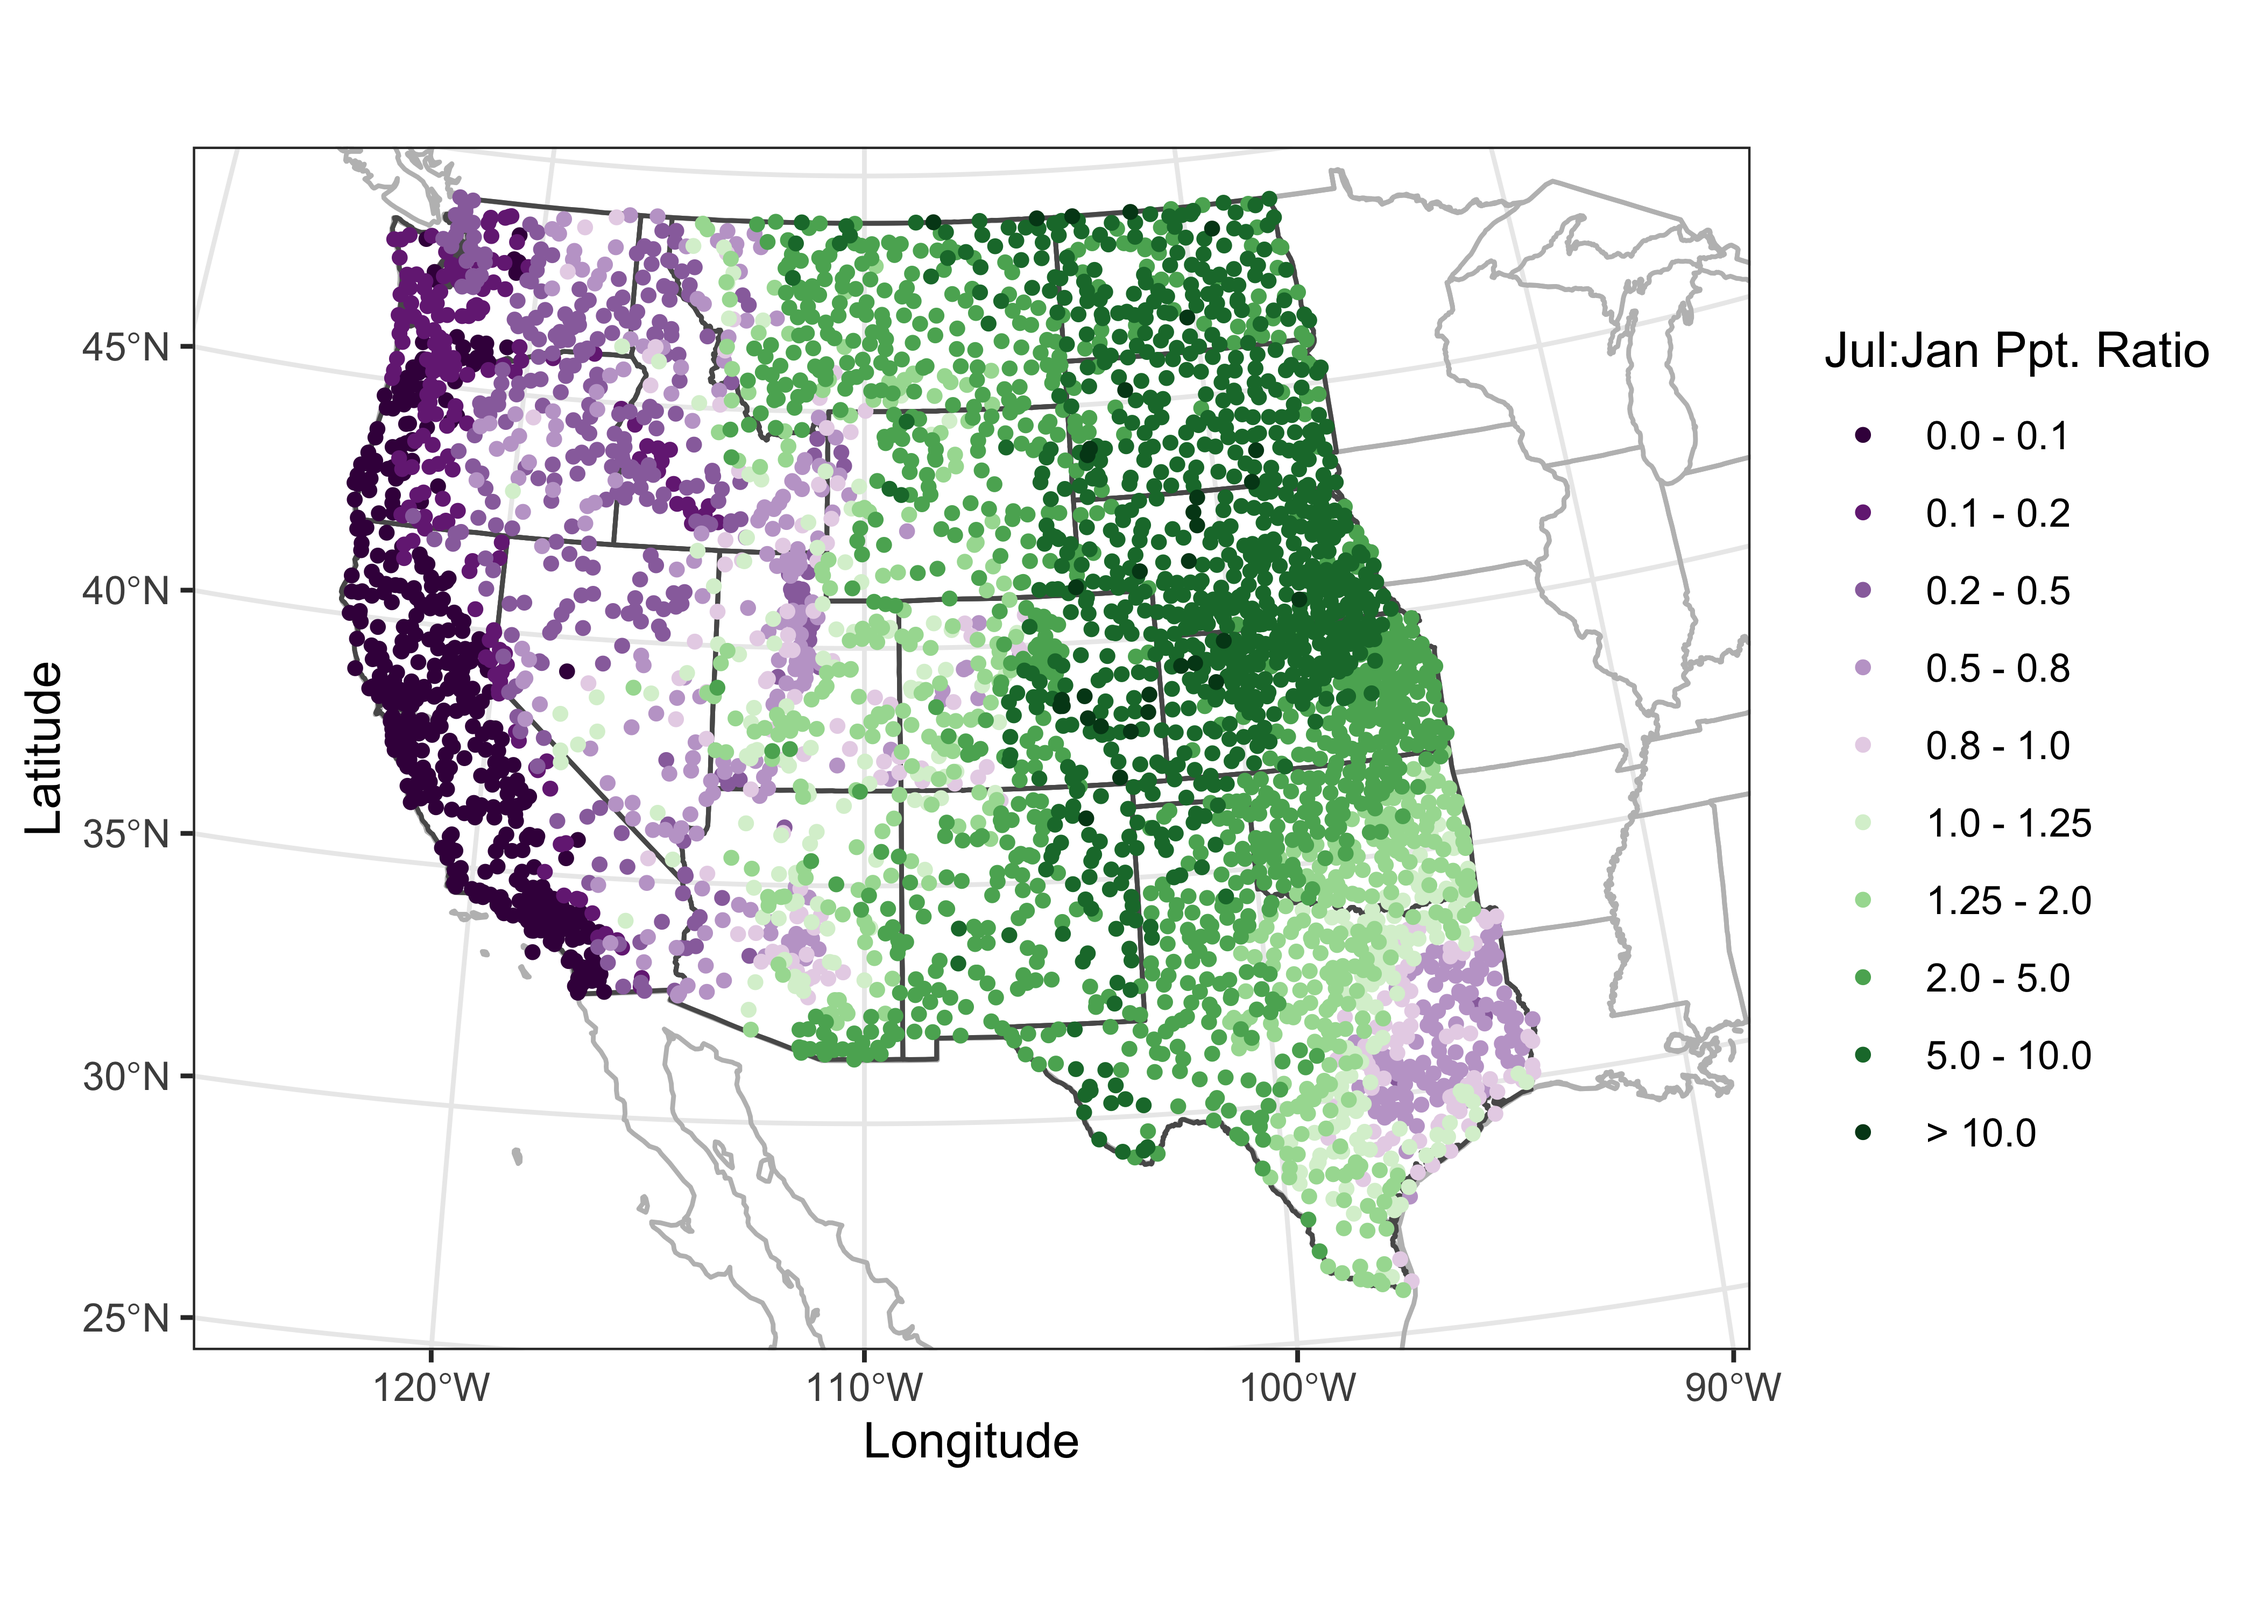
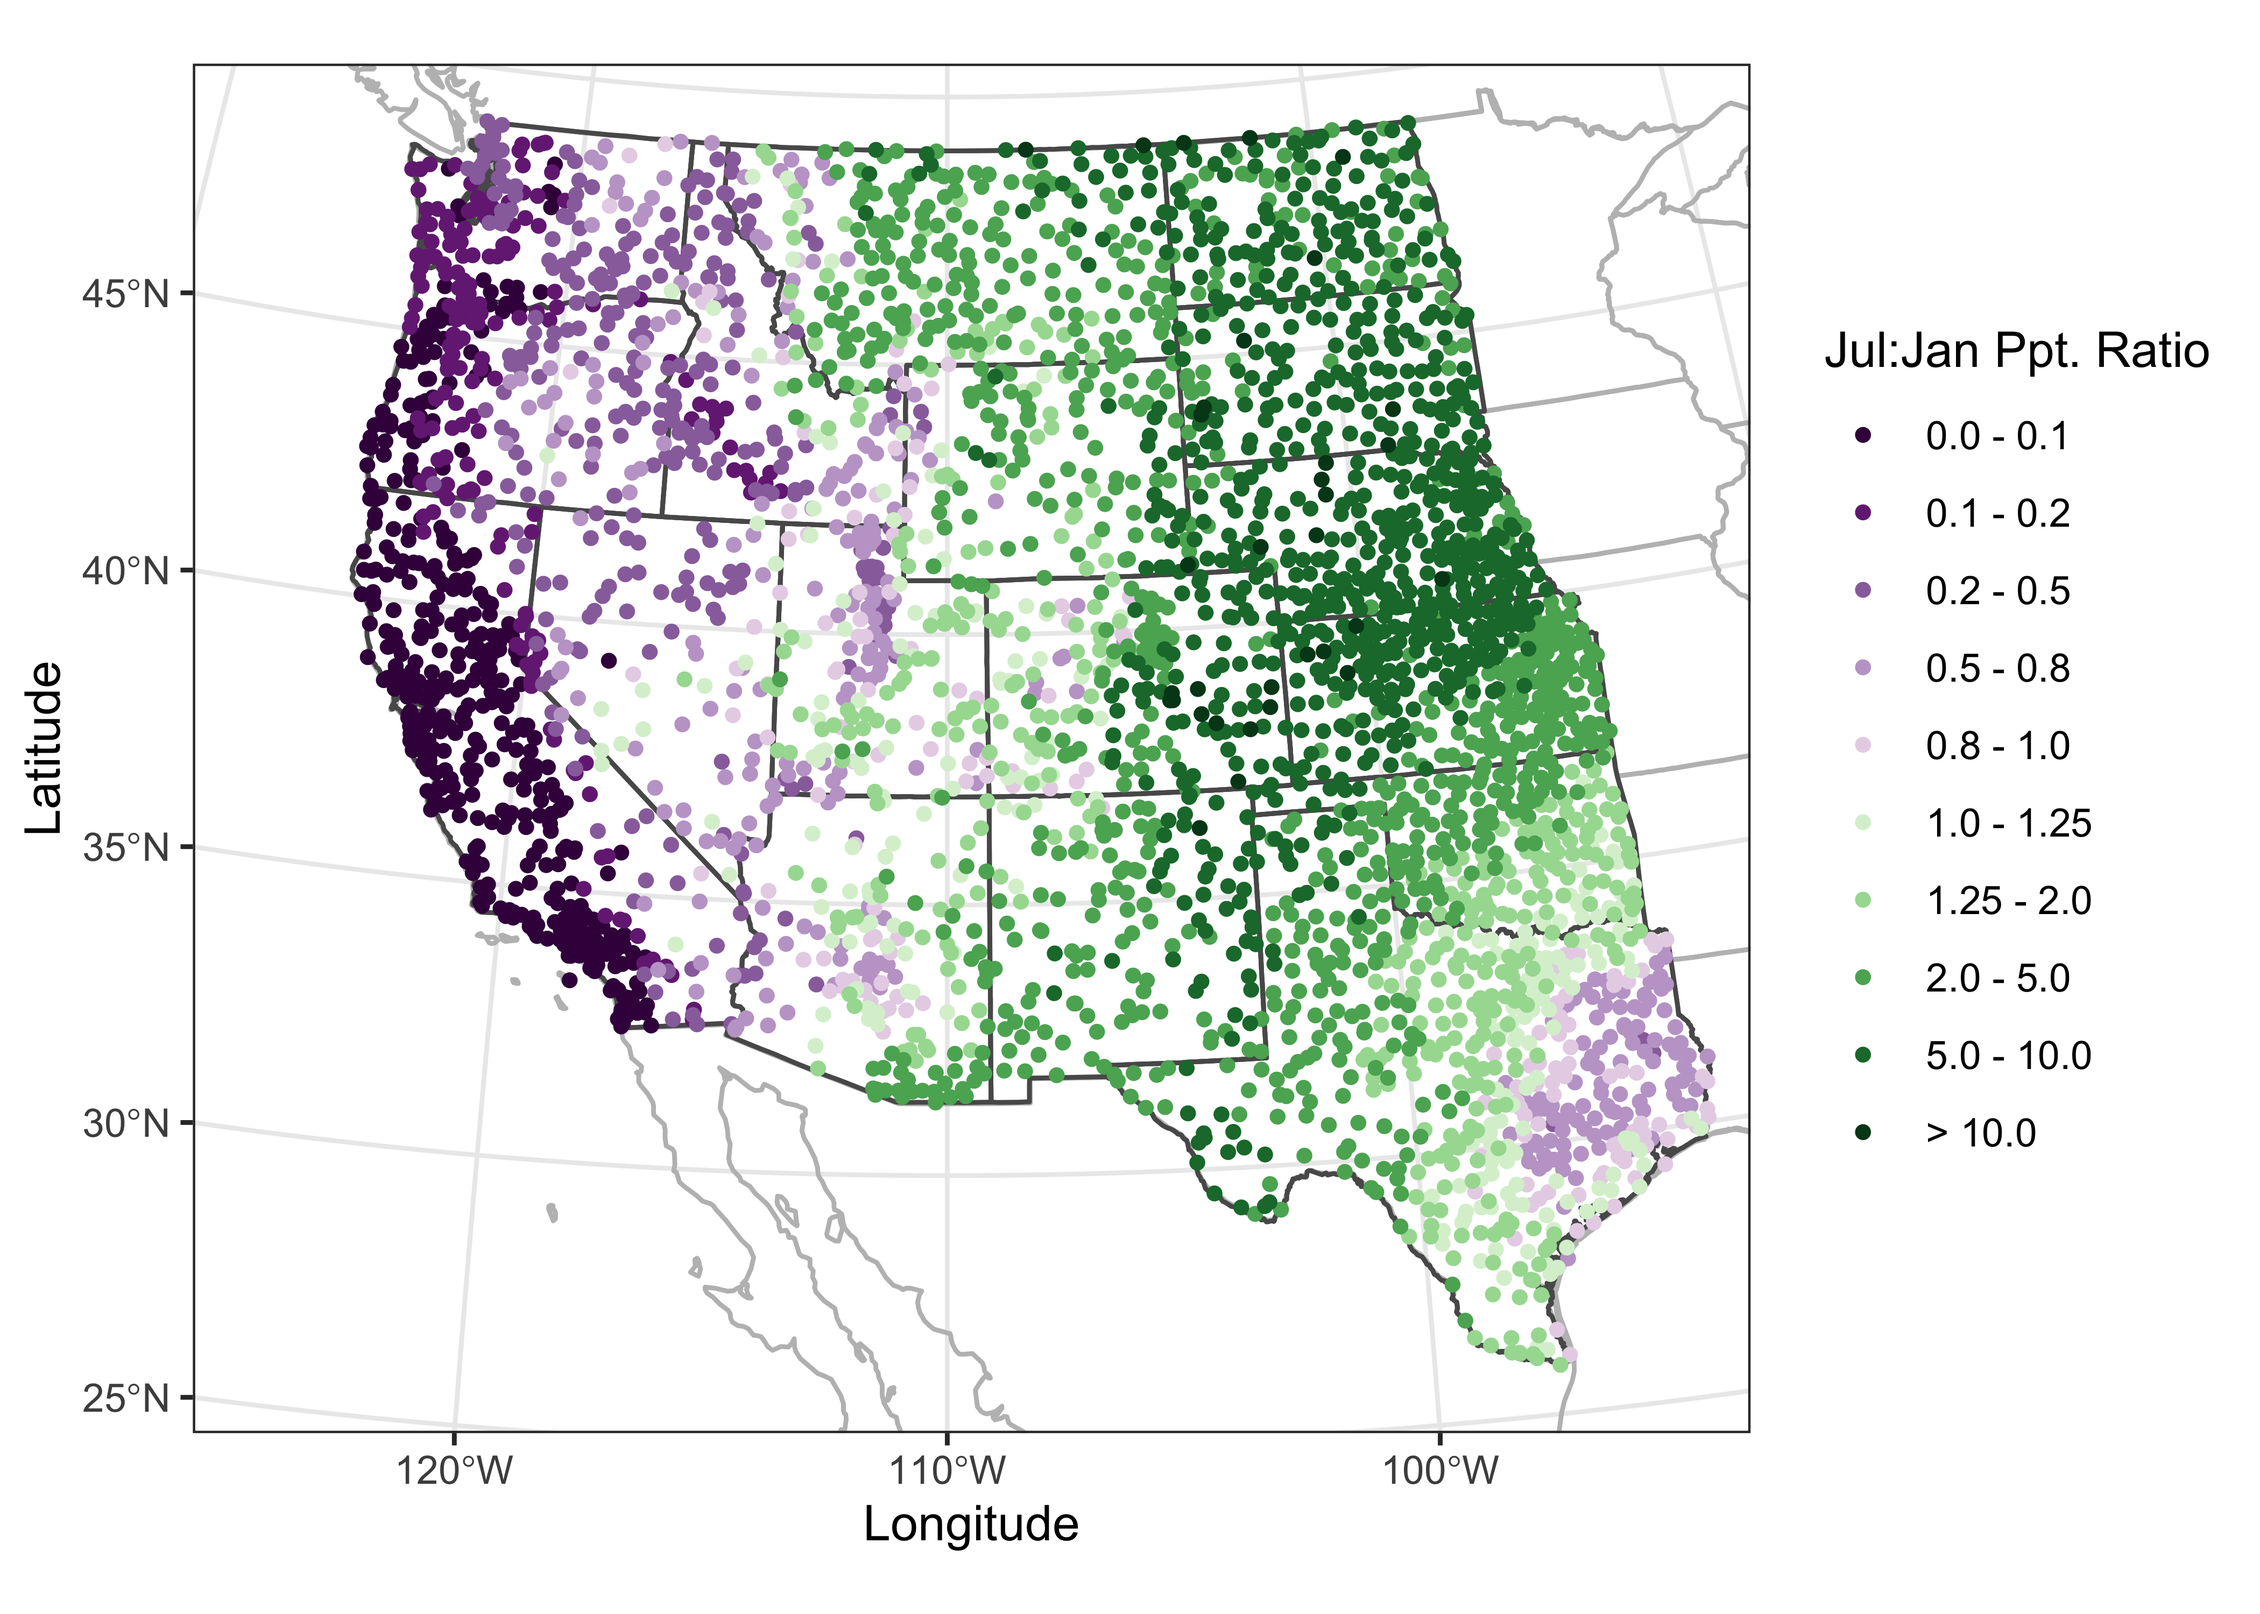
Winter 2021 revisions

diff --git a/docs/lec07.html b/docs/lec07.html
@@ -532,6 +532,7 @@ $(document).ready(function () {
 <li><a href="#open-the-control-netcdf-and-target-.csv-files"><span class="toc-section-number">5.1</span> Open the “control” netCDF and target .csv files</a></li>
 <li><a href="#interpolation"><span class="toc-section-number">5.2</span> Interpolation</a></li>
 </ul></li>
+<li><a href="#readings"><span class="toc-section-number">6</span> Readings</a></li>
 </ul>
 </div>
 
@@ -540,7 +541,7 @@ $(document).ready(function () {
   addKlippy('right', 'top', 'auto', '1', 'Copy code', 'Copied!');
 </script>
 <p>
-<span style="color: #cc0000;">NOTE: This page was revised for Spring 2020, and may undergo further edits for Winter 2021.</span>
+<span style="color: #00cc00;">NOTE: This page has been revised for Winter 2021, but may undergo further edits.</span>
 </p>
 <div id="introduction" class="section level1" number="1">
 <h1 number="1"><span class="header-section-number">1</span> Introduction</h1>
@@ -1209,7 +1210,7 @@ $(document).ready(function () {
 ##         institution: USFS
 ##         source: http://www.fs.usda.gov/rds/archive/Product/RDS-2013-0009.3/
 ##         references: Short, K.C., 2014, Earth Syst. Sci. Data, 6, 1-27
-##         history: P.J. Bartlein, Mon Jan  4 14:48:35 2021
+##         history: P.J. Bartlein, Sat Jan  9 16:43:32 2021
 ##         Conventions: CF-1.6</code></pre>
 <div class="sourceCode" id="cb89"><pre class="sourceCode r"><code class="sourceCode r"><span id="cb89-1"><a href="#cb89-1" aria-hidden="true" tabindex="-1"></a><span class="co"># close the file, writing data to disk</span></span>
 <span id="cb89-2"><a href="#cb89-2" aria-hidden="true" tabindex="-1"></a><span class="fu">nc_close</span>(ncout)</span></code></pre></div>
@@ -1474,6 +1475,14 @@ $(document).ready(function () {
 <p><img src="lec07_files/figure-html/gg4-1.png" width="2100" /></p>
 <p><a href="lec07.html">[Back to top]</a></p>
 </div>
+</div>
+<div id="readings" class="section level1" number="6">
+<h1 number="6"><span class="header-section-number">6</span> Readings</h1>
+<p>In addition to the web pages listed in the *Maps in R&amp; topic, geospatial analysis is discussed in the following Bookdown eBooks:</p>
+<p>Lovelace, R., J. Nowosad, and J. Muenchow, 2019, <em>Geocomputation with R</em> <a href="https://bookdown.org/robinlovelace/geocompr/">[https://bookdown.org/robinlovelace/geocompr/]</a></p>
+<p>Pebesma, E. and R. Bivand, 2020, <em>Spatial Data Science</em> <a href="https://keen-swartz-3146c4.netlify.com">[https://keen-swartz-3146c4.netlify.com]</a></p>
+<p>Also worth looking at is chapter 3 in Bivand, R., et al. (2013) <em>Applied Spatial Data Analysis with R</em>, 2nd edition, which describes the <code>sp</code> package approach to mapping. (Search for the eBook version on the UO Library page <a href="http://library.uoregon.edu">[http://library.uoregon.edu]</a>) (The whole book is worth looking at, but Ch. 3 is the key reference for the display of spatial data (i.e. mapping) using the older <code>sp</code> package.)</p>
+<p><a href="lec07.html">[Back to top]</a></p>
 </div>
 
 

diff --git a/docs/lec06.html b/docs/lec06.html
@@ -1024,7 +1024,7 @@ The easiest way to get most of these data files and shape-file components, is to
 <span id="cb82-8"><a href="#cb82-8" aria-hidden="true" tabindex="-1"></a>                                <span class="st">&quot;1.0 - 1.25&quot;</span>, <span class="st">&quot;1.25 - 2.0&quot;</span>, <span class="st">&quot;2.0 - 5.0&quot;</span>, <span class="st">&quot;5.0 - 10.0&quot;</span>, <span class="st">&quot;&gt; 10.0&quot;</span>),</span>
 <span id="cb82-9"><a href="#cb82-9" aria-hidden="true" tabindex="-1"></a>                     <span class="at">name =</span> <span class="st">&quot;Jul:Jan Ppt. Ratio&quot;</span>) <span class="sc">+</span></span>
 <span id="cb82-10"><a href="#cb82-10" aria-hidden="true" tabindex="-1"></a>                       <span class="fu">labs</span>(<span class="at">x =</span> <span class="st">&quot;Longitude&quot;</span>, <span class="at">y =</span> <span class="st">&quot;Latitude&quot;</span>) <span class="sc">+</span></span>
-<span id="cb82-11"><a href="#cb82-11" aria-hidden="true" tabindex="-1"></a>  <span class="fu">coord_sf</span>(<span class="at">crs =</span> <span class="fu">st_crs</span>(wus_sf_proj), <span class="at">xlim =</span> <span class="fu">c</span>(<span class="sc">-</span><span class="dv">1400000</span>, <span class="dv">1900000</span>), <span class="at">ylim =</span> <span class="fu">c</span>(<span class="sc">-</span><span class="dv">400000</span>, <span class="dv">2150000</span>)) <span class="sc">+</span></span>
+<span id="cb82-11"><a href="#cb82-11" aria-hidden="true" tabindex="-1"></a>  <span class="fu">coord_sf</span>(<span class="at">crs =</span> <span class="fu">st_crs</span>(wus_sf_proj), <span class="at">xlim =</span> <span class="fu">c</span>(<span class="sc">-</span><span class="dv">1400000</span>, <span class="dv">1500000</span>), <span class="at">ylim =</span> <span class="fu">c</span>(<span class="sc">-</span><span class="dv">400000</span>, <span class="dv">2150000</span>)) <span class="sc">+</span></span>
 <span id="cb82-12"><a href="#cb82-12" aria-hidden="true" tabindex="-1"></a>  <span class="fu">theme_bw</span>()</span></code></pre></div>
 <p><img src="lec06_files/figure-html/m31-1.png" width="2100" /></p>
 <p><a href="lec06.html">[Back to top]</a></p>

diff --git a/docs/readings.html b/docs/readings.html
@@ -466,7 +466,9 @@ $(document).ready(function () {
 <div id="other-references" class="section level1" number="5">
 <h1 number="5"><span class="header-section-number">5</span> Other references</h1>
 <p>Cleveland, W.S., 1993, Visualizing Data, Hobart Press, 360 p.</p>
-<p>Bivand, R.S., E.J. Pebesma and V. Gomez-Rubio (2013) Applied Spatial Data Analysis with R, Springer, 405 p.</p>
+<p>Everitt, B. and T. Hothorn, 2011, <em>An Introduction to Applied Multivariate Analysis with R</em>, Springer, 273 p., availabe as an eBook at UO Libraries.</p>
+<p>Wickham, H., 2016, <em>Ggplot2, Elegant Graphics for Data Analysis 2nd Ed.</em>, Springer, 266 p. availabe as an eBook at UO Libraries.</p>
+<p>Bivand, R.S., E.J. Pebesma and V. Gomez-Rubio (2013) <em>Applied Spatial Data Analysis with R</em>, Springer, 405 p. availabe as an eBook at UO Libraries.</p>
 <p>Rogerson, P.A., 2001, Statistical Methods for Geography, Sage, 236 p.</p>
 <p>Fotheringham, A.S., C. Brunsdon, and M. Charlton (2000) Quantitative Geography, Sage, 270 p.</p>
 <p>Maindonald, J.H., 2008, Using R for Data Analysis and Graphics, an Introduction (.pdf on CRAN)</p>

diff --git a/readings.md b/readings.md
@@ -17,10 +17,10 @@ Rossiter, D.G., 2012, Introduction to the R Project for Statistical Computing fo
 
 Peng, R.D., 2016, *Exploratory Data Analysis with R*, [https://bookdown.org/rdpeng/exdata/](https://bookdown.org/rdpeng/exdata/)
 
-Phillips, N.D., 2017, *YaRrr — The Pirate's Guide to R*  
-[[https://bookdown.org/ndphillips/YaRrr/]](https://bookdown.org/ndphillips/YaRrr/) 
+Phillips, N.D., 2017, *YaRrr — The Pirate's Guide to R* [[https://bookdown.org/ndphillips/YaRrr/]](https://bookdown.org/ndphillips/YaRrr/) 
 
-Irizarry, R.A., 2020, *Introduction to Data Science, Data Analysis and Prediction Algorithms with R* [[https://rafalab.github.io/dsbook/]](https://rafalab.github.io/dsbook/)
+Irizarry, R.A., 2020, *Introduction to Data Science, Data Analysis and Prediction Algorithms with R*  
+[[https://rafalab.github.io/dsbook/]](https://rafalab.github.io/dsbook/)
 
 Ismay, C., and A.Y. Kim, 2020, *Statistical Inference via Data Science* [[https://moderndive.com/index.html]](https://moderndive.com/index.html)
  
@@ -58,7 +58,11 @@ Hijmans, R., 2016, *Spatial Data Analysis and Modeling with R* [http://rspatial.
 
 Cleveland, W.S., 1993, Visualizing Data, Hobart Press, 360 p.
 
-Bivand, R.S., E.J. Pebesma and V. Gomez-Rubio (2013) Applied Spatial Data Analysis with R, Springer, 405 p.
+Everitt, B. and T. Hothorn, 2011, *An Introduction to Applied Multivariate Analysis with R*, Springer, 273 p., availabe as an eBook at UO Libraries.
+
+Wickham, H., 2016, *Ggplot2, Elegant Graphics for Data Analysis 2nd Ed.*, Springer, 266 p. availabe as an eBook at UO Libraries.
+
+Bivand, R.S., E.J. Pebesma and V. Gomez-Rubio (2013) *Applied Spatial Data Analysis with R*, Springer, 405 p. availabe as an eBook at UO Libraries.
 
 Rogerson, P.A., 2001, Statistical Methods for Geography, Sage, 236 p.
 
